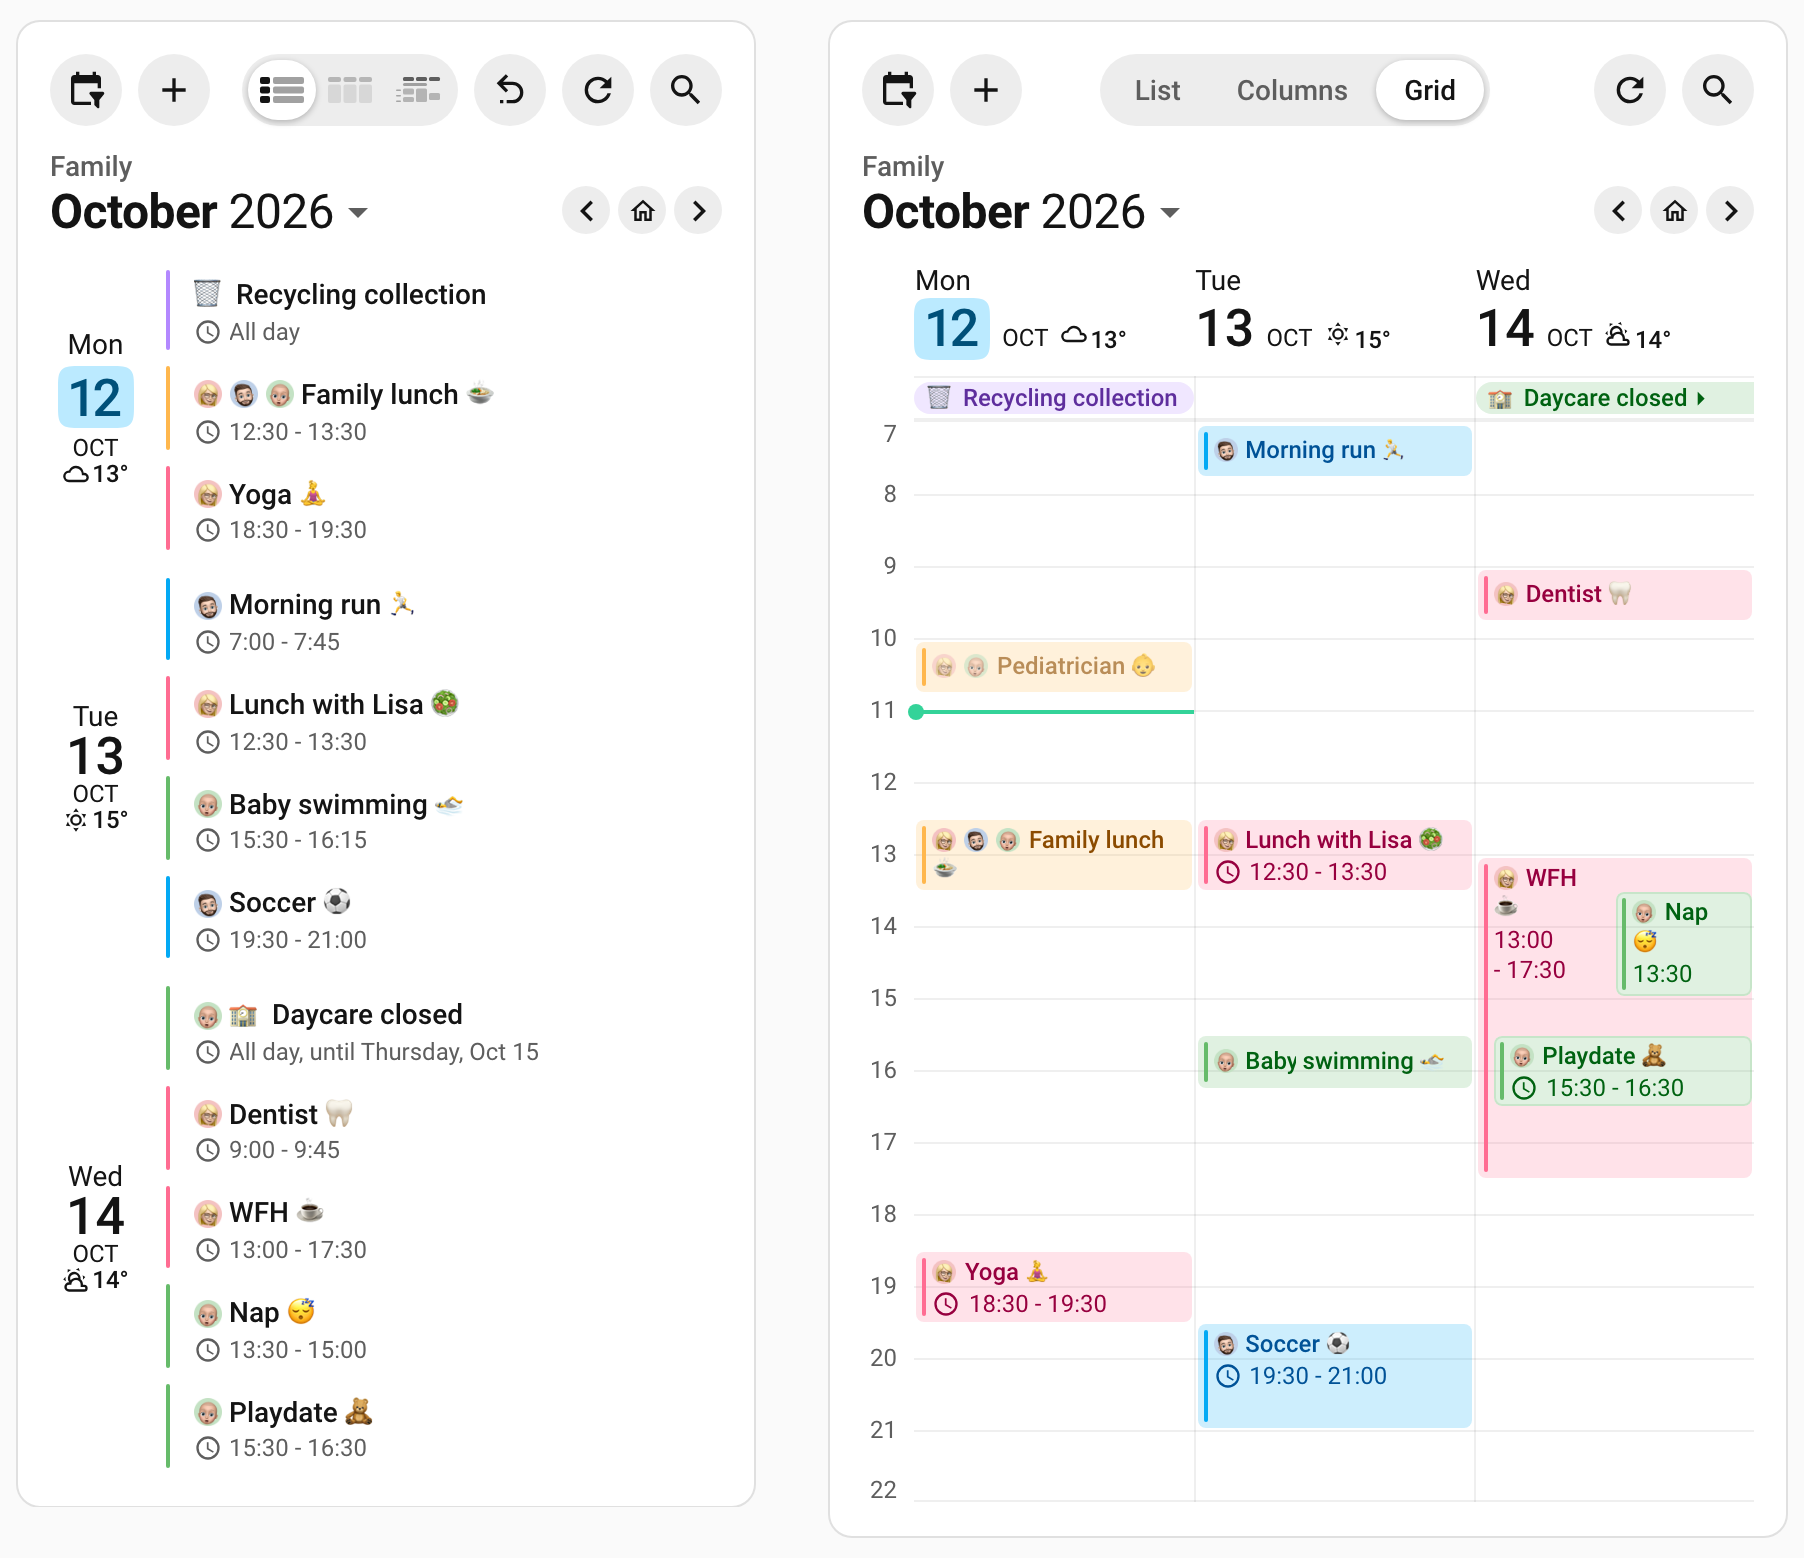
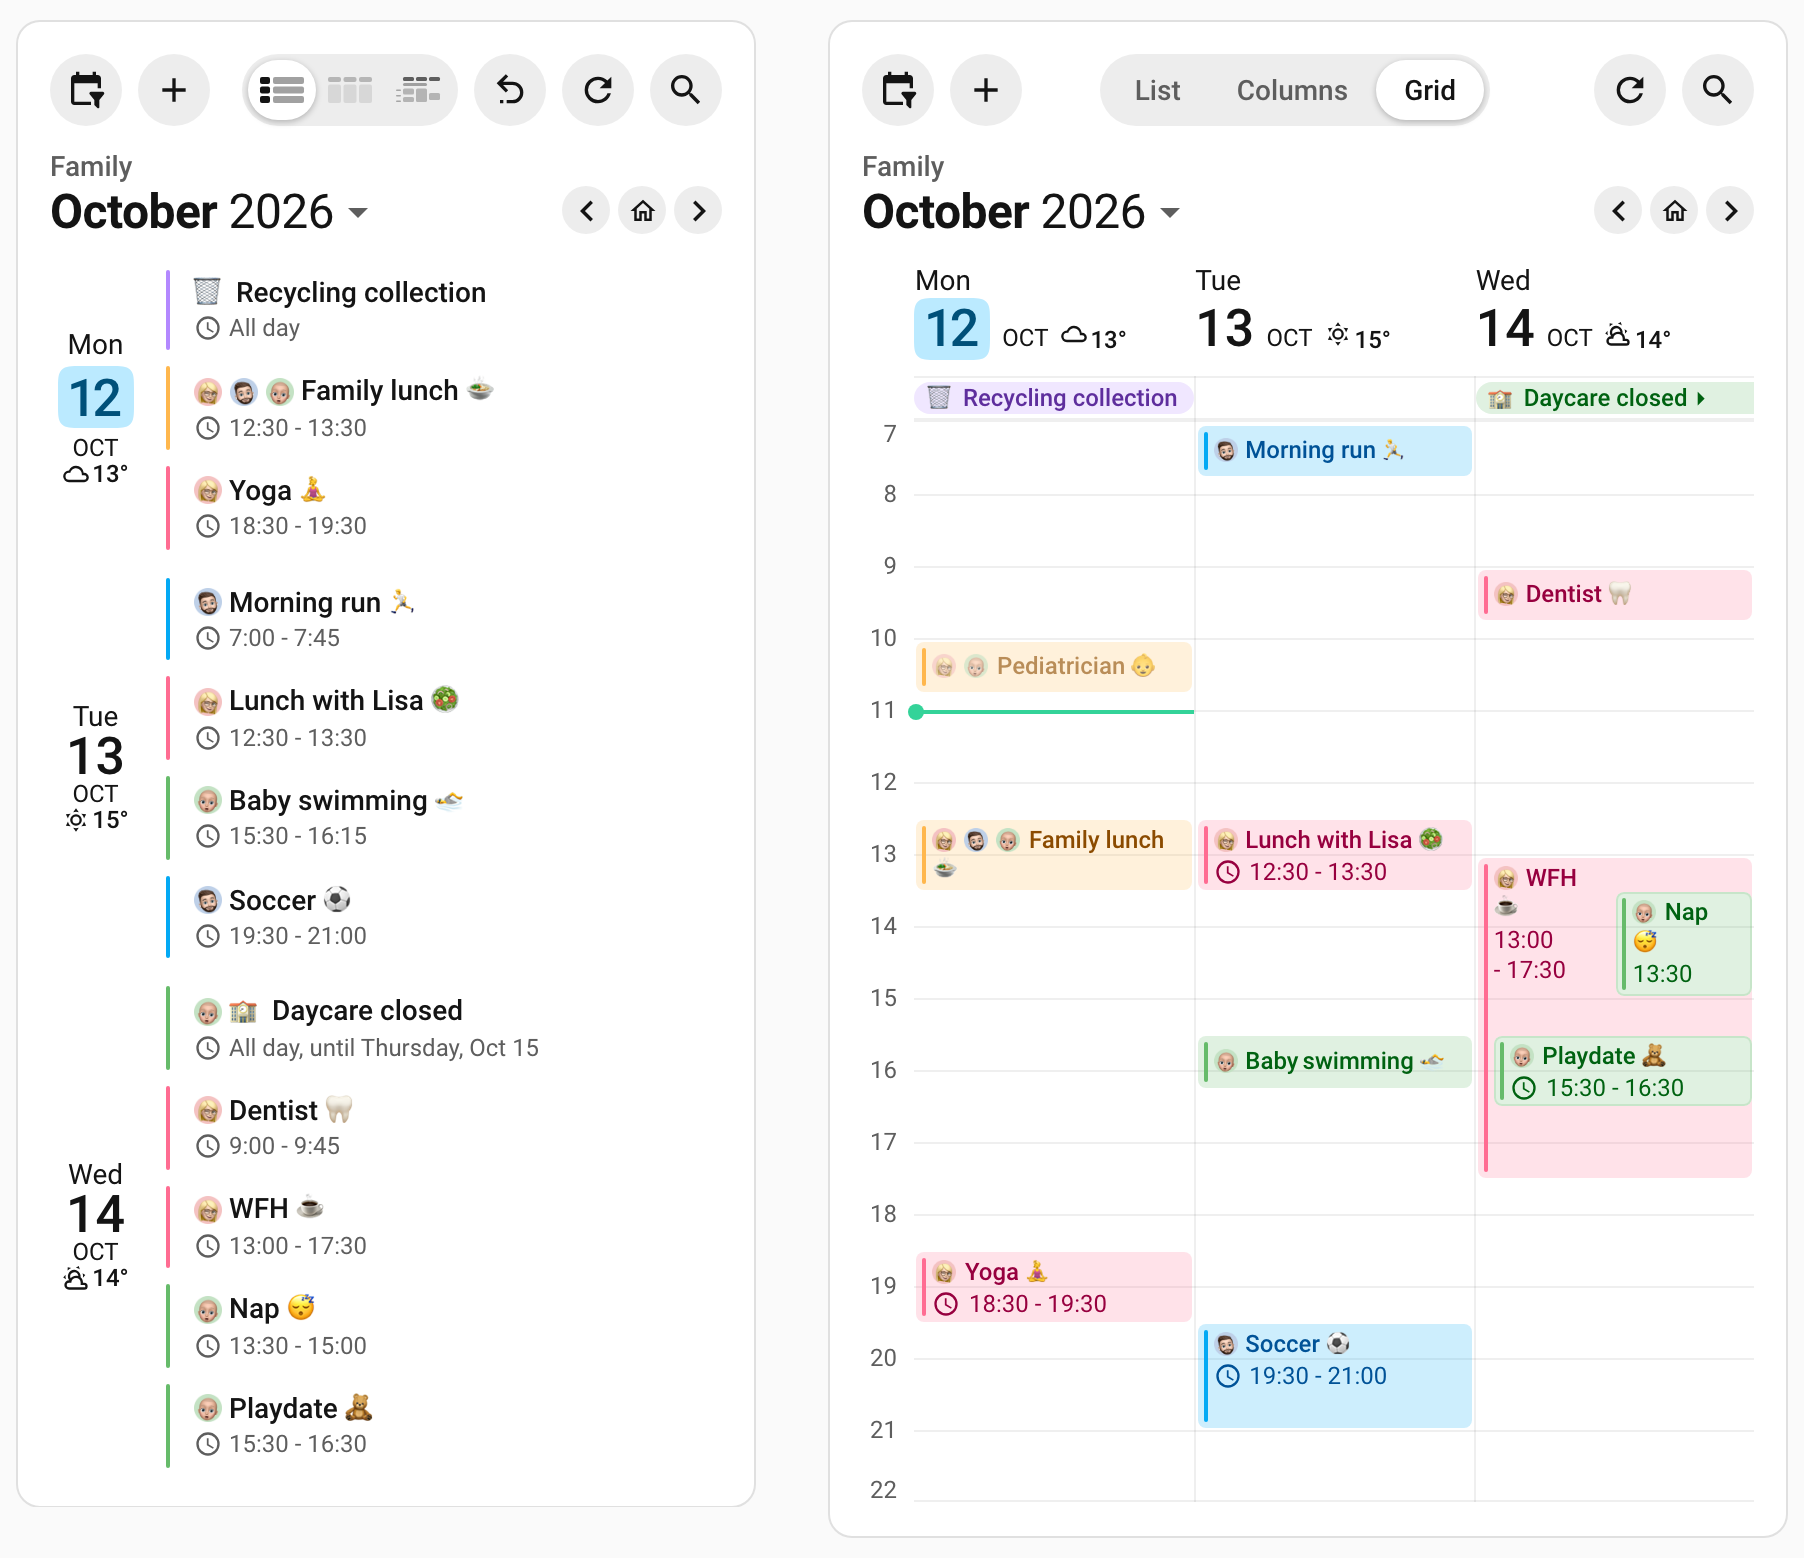
docs(stories): retake the eight story images on the v5.2 build
All eight in one run, as screenshots.md asks of the set: five changed with #789's list rows
and R1's time beside the title on the Family Agenda (now 1504 px tall rather than 1852), and
the wall, Columns and Today & Tomorrow images change by glyph edges only, which Alex waived on
Nov 11. Measured against the published images as raw RGBA: the wall and Columns images differ
in 97 and 55 pixels, all at glyph edges.

The Event Text in Calendar Colors alt text now names the colors this Agenda image shows, which
has no blue title.

diff --git a/docs/features/event-content.md b/docs/features/event-content.md
@@ -863,7 +863,7 @@ browser the same way. [Language](/features/core-settings#language) has the whole
 Write `accent` into any of the card's event-text color options and that text is drawn in
 **each event's own calendar color** rather than in one color for the whole card.
 
-<img src="https://raw.githubusercontent.com/alexpfau/calendar-card-pro/main/.github/img/story_family_agenda.png" alt="A three-day family agenda whose titles are drawn in their calendars' colors, pink, blue, green, gray and gold, each a readable shade of the accent bar beside it" width="600"><br>
+<img src="https://raw.githubusercontent.com/alexpfau/calendar-card-pro/main/.github/img/story_family_agenda.png" alt="A three-day family agenda whose titles are drawn in their calendars' colors, pink, green, gray and gold, each a readable shade of the accent bar beside it" width="600"><br>
 
 The [Family Agenda](/guide/one-calendar-many-purposes) sets `event_color: accent`, so every title
 takes its calendar's color. Here only the time follows the calendar; the title keeps
